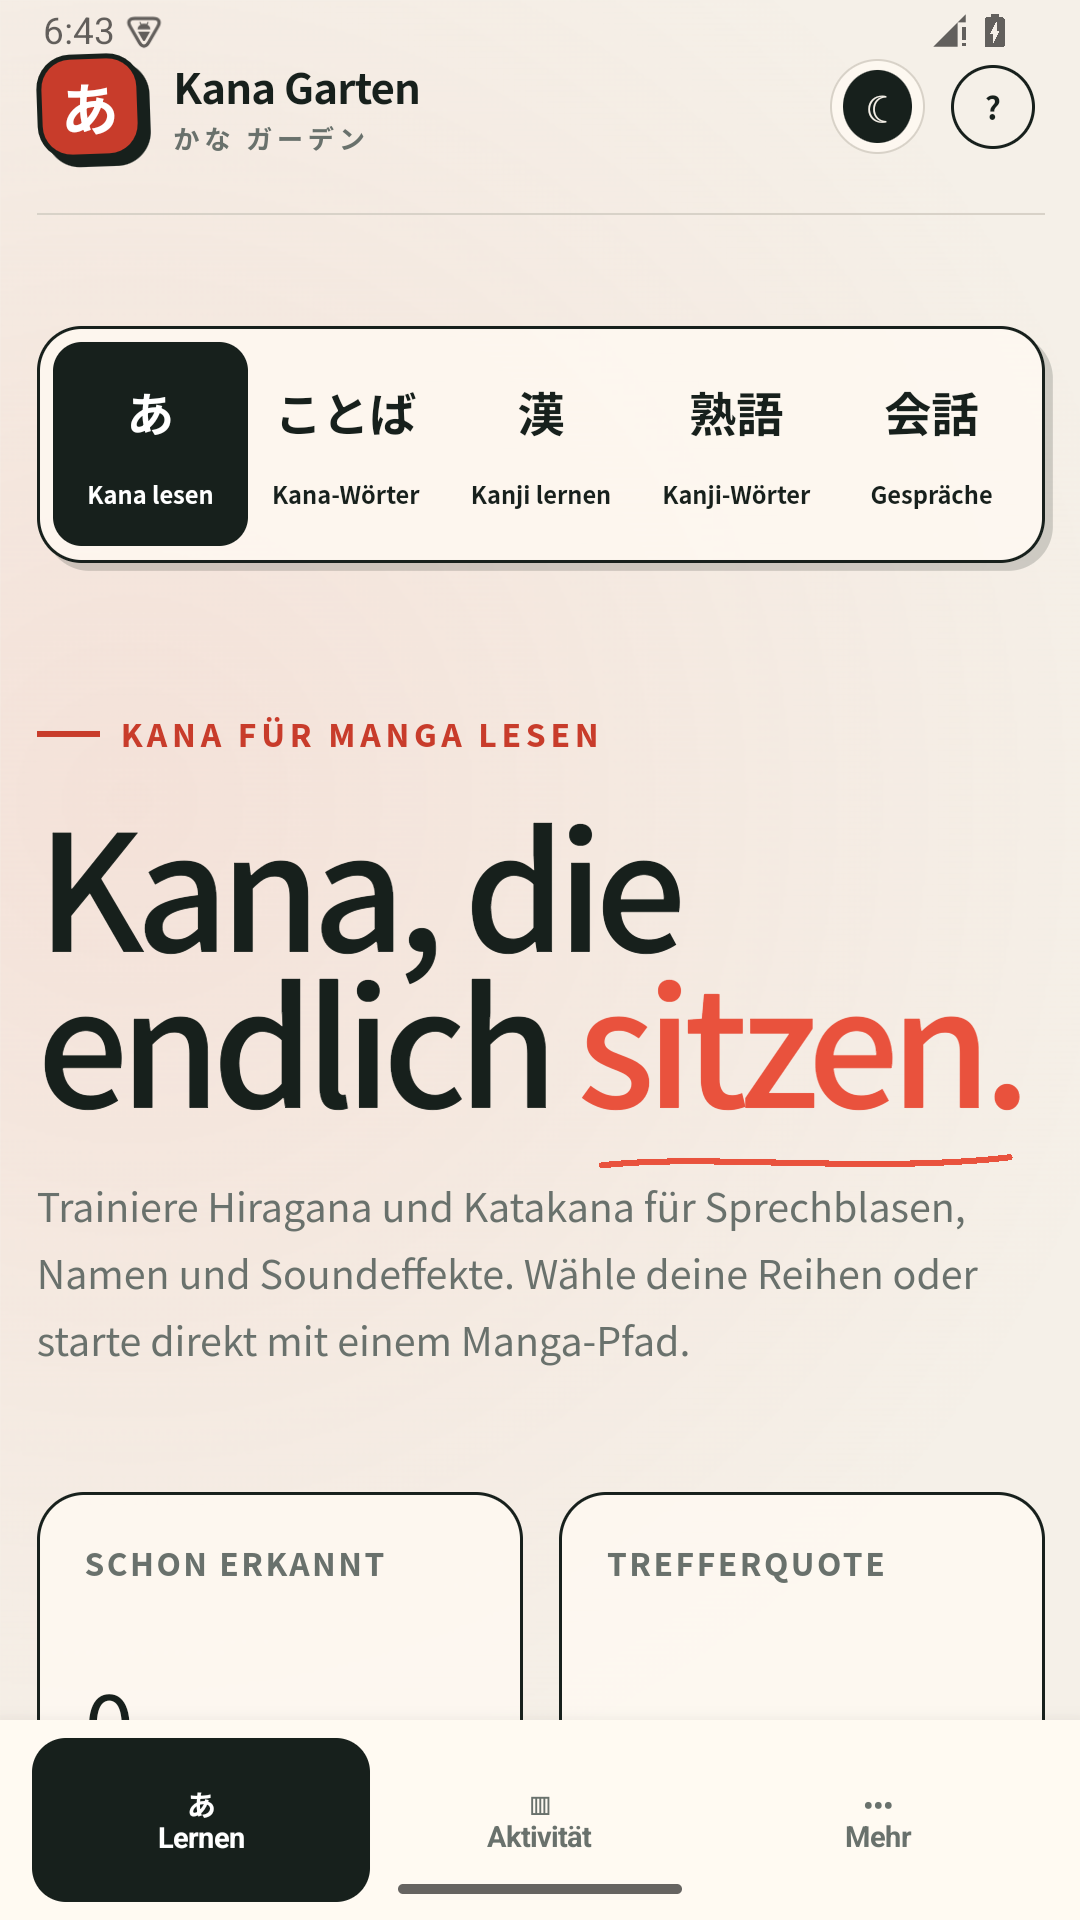
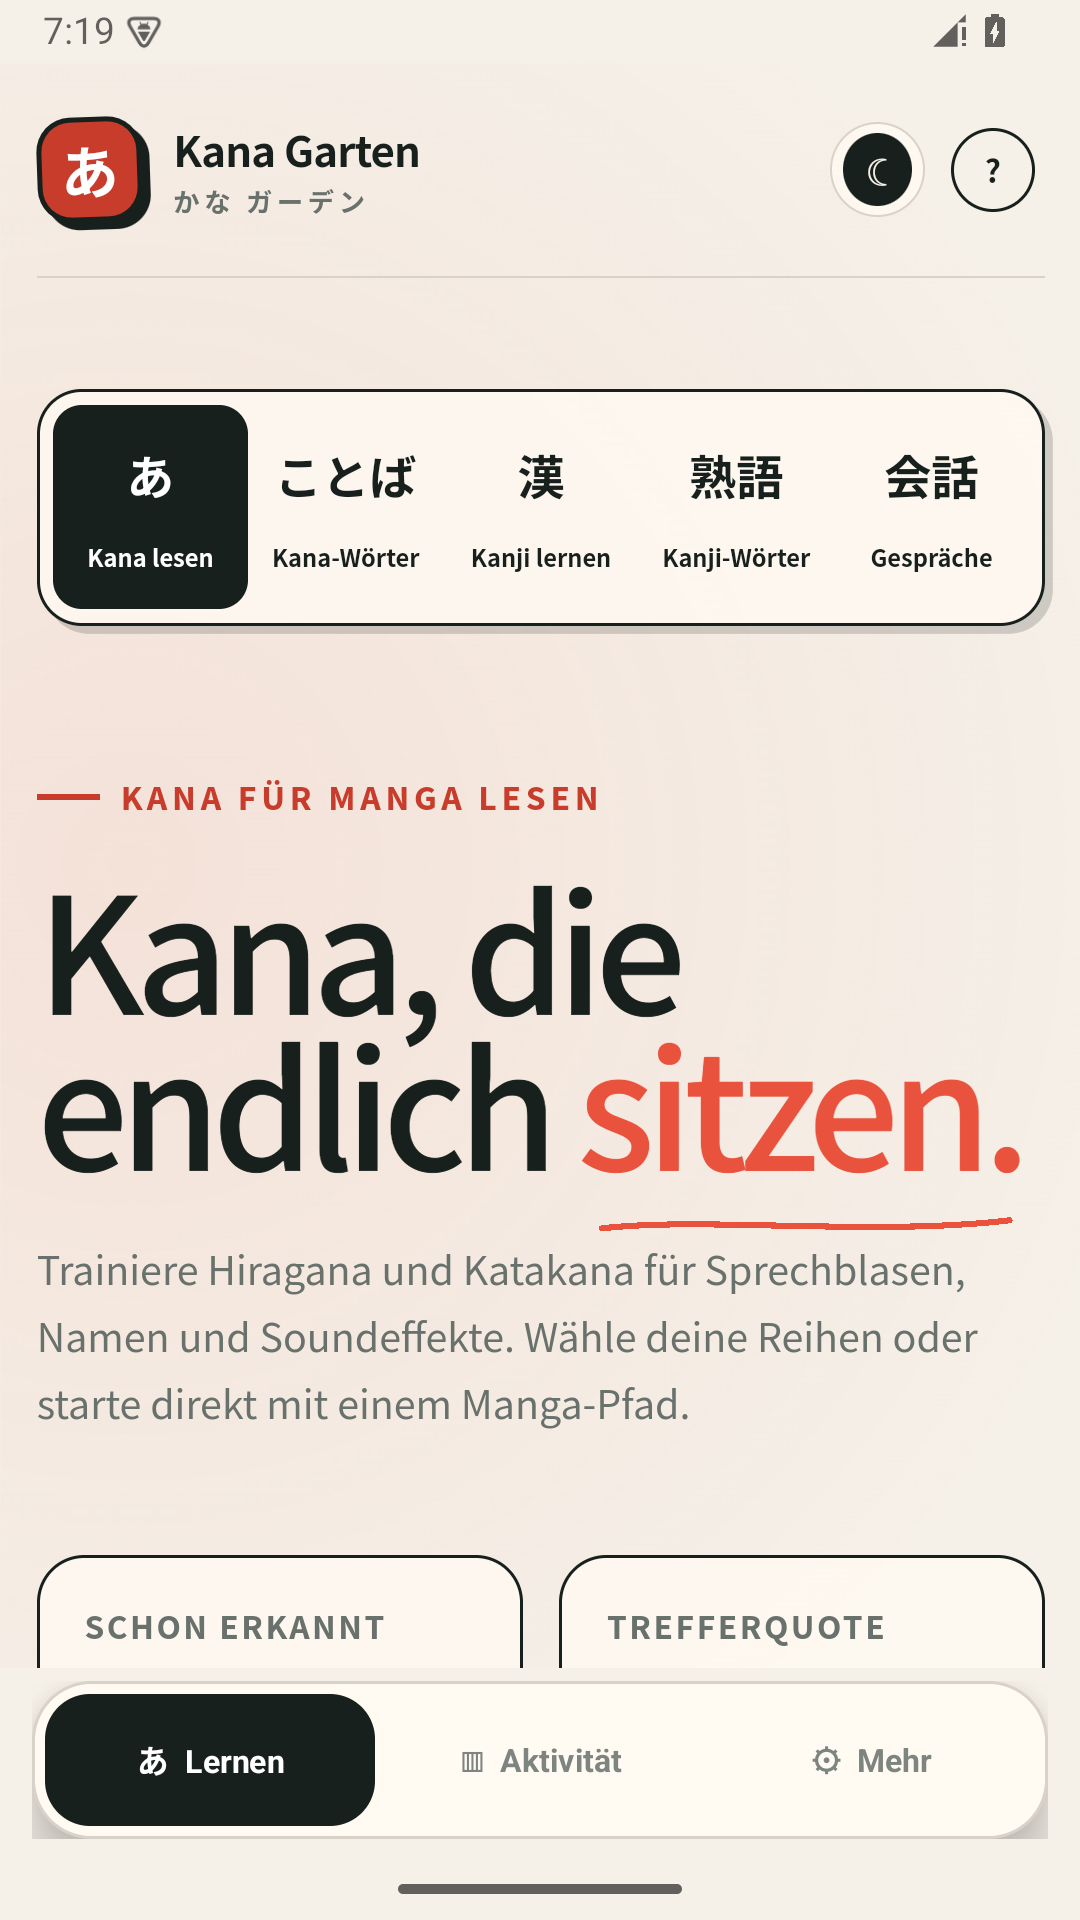
Polish system bars and learning navigation

diff --git a/app/src/main/assets/web/app.js b/app/src/main/assets/web/app.js
@@ -1945,7 +1945,10 @@ function renderWordQuiz() {
       </section>
     </div>
   `;
-  requestAnimationFrame(() => document.querySelector("#kana-answer")?.focus());
+  window.scrollTo({ top: 0, behavior: "instant" });
+  requestAnimationFrame(() =>
+    document.querySelector("#kana-answer")?.focus({ preventScroll: true }),
+  );
 }
 
 function submitWordAnswer(rawAnswer, revealed = false) {
@@ -3220,7 +3223,7 @@ function renderQuiz() {
 
   document.body.classList.add("is-quizzing");
   app.innerHTML = `
-    <div class="quiz-view">
+    <div class="quiz-view kana-quiz-view">
       <div class="quiz-top">
         <button class="icon-button" type="button" data-action="quit-session"><span aria-hidden="true">←</span> Beenden</button>
         <div class="progress-wrap" aria-label="${mastered} von ${total} gemeistert">
@@ -3234,7 +3237,7 @@ function renderQuiz() {
         </div>
       </div>
 
-      <section class="quiz-stage" aria-labelledby="quiz-prompt">
+      <section class="quiz-stage kana-quiz-stage" aria-labelledby="quiz-prompt">
         <p class="quiz-prompt" id="quiz-prompt">Wie liest man dieses Zeichen?</p>
         <div class="quiz-kana-wrap">
           <span class="quiz-script-tag">${kana.script}</span>
@@ -3284,7 +3287,10 @@ function renderQuiz() {
       </section>
     </div>
   `;
-  requestAnimationFrame(() => document.querySelector("#kana-answer")?.focus());
+  window.scrollTo({ top: 0, behavior: "instant" });
+  requestAnimationFrame(() =>
+    document.querySelector("#kana-answer")?.focus({ preventScroll: true }),
+  );
 }
 
 function submitAnswer(rawAnswer, revealed = false) {

diff --git a/app/src/main/assets/web/styles.css b/app/src/main/assets/web/styles.css
@@ -104,6 +104,14 @@ html.android-app .save-indicator {
   display: none;
 }
 
+html.android-app body.is-quizzing .site-header {
+  display: none;
+}
+
+html.android-app body.is-quizzing .quiz-view {
+  min-height: 100dvh;
+}
+
 html.android-app .home-view,
 html.android-app .quiz-view,
 html.android-app .result-view {
@@ -1444,6 +1452,11 @@ html[data-theme="dark"] .paper-grain {
   justify-items: center;
 }
 
+html.android-app .kana-quiz-stage {
+  width: 100%;
+  margin-top: clamp(48px, 8dvh, 88px);
+}
+
 .quiz-stage.word-quiz-stage {
   margin-top: 38px;
 }
@@ -1742,10 +1755,16 @@ html[data-theme="dark"] .paper-grain {
 }
 
 .quiz-kana {
+  display: grid;
+  width: 100%;
+  height: 100%;
+  place-items: center;
   font-family: "Noto Sans JP", sans-serif;
   font-size: clamp(112px, 19vw, 168px);
   font-weight: 600;
   line-height: 1;
+  text-align: center;
+  transform: translateY(-0.025em);
 }
 
 .quiz-kana.quiz-kana-combo {
@@ -3588,6 +3607,10 @@ html[data-theme="dark"] .paper-grain {
 
   .quiz-stage {
     margin-top: 40px;
+  }
+
+  html.android-app .kana-quiz-stage {
+    margin-top: clamp(72px, 12dvh, 108px);
   }
 
   .quiz-kana-wrap {

diff --git a/app/src/main/assets/web/index.html b/app/src/main/assets/web/index.html
@@ -19,7 +19,7 @@
         }
       })();
     </script>
-    <link rel="stylesheet" href="/styles.css?v=1.0.0">
+    <link rel="stylesheet" href="/styles.css?v=1.1.0">
   </head>
   <body>
     <div class="paper-grain" aria-hidden="true"></div>
@@ -77,6 +77,6 @@
     </dialog>
 
     <div id="toast-region" class="toast-region" aria-live="polite" aria-atomic="true"></div>
-    <script type="module" src="/app.js?v=1.0.0"></script>
+    <script type="module" src="/app.js?v=1.1.0"></script>
   </body>
 </html>

diff --git a/app/src/main/java/ch/fasrv/kanagarten/MainActivity.java b/app/src/main/java/ch/fasrv/kanagarten/MainActivity.java
@@ -23,6 +23,7 @@ import android.view.Gravity;
 import android.view.View;
 import android.view.ViewGroup;
 import android.view.Window;
+import android.view.WindowInsets;
 import android.webkit.JavascriptInterface;
 import android.webkit.PermissionRequest;
 import android.webkit.WebChromeClient;
@@ -73,9 +74,7 @@ public final class MainActivity extends Activity {
     protected void onCreate(Bundle savedInstanceState) {
         super.onCreate(savedInstanceState);
         Window window = getWindow();
-        window.setStatusBarColor(PAPER);
-        window.setNavigationBarColor(PAPER_LIGHT);
-        window.getDecorView().setSystemUiVisibility(View.SYSTEM_UI_FLAG_LIGHT_STATUS_BAR);
+        configureSystemBars(window);
 
         usageStore = new UsageStore(this);
         initializeTextToSpeech();
@@ -88,6 +87,7 @@ public final class MainActivity extends Activity {
         LinearLayout root = new LinearLayout(this);
         root.setOrientation(LinearLayout.VERTICAL);
         root.setBackgroundColor(PAPER);
+        installSystemBarInsets(root);
 
         contentFrame = new FrameLayout(this);
         root.addView(contentFrame, new LinearLayout.LayoutParams(
@@ -105,9 +105,52 @@ public final class MainActivity extends Activity {
 
         root.addView(buildBottomNavigation(), new LinearLayout.LayoutParams(
             ViewGroup.LayoutParams.MATCH_PARENT,
-            dp(76)
+            dp(72)
         ));
         setContentView(root);
+        root.requestApplyInsets();
+    }
+
+    @SuppressWarnings("deprecation")
+    private void configureSystemBars(Window window) {
+        if (Build.VERSION.SDK_INT >= Build.VERSION_CODES.R) {
+            window.setDecorFitsSystemWindows(false);
+            window.setStatusBarColor(Color.TRANSPARENT);
+            window.setNavigationBarColor(Color.TRANSPARENT);
+            android.view.WindowInsetsController controller =
+                window.getDecorView().getWindowInsetsController();
+            if (controller != null) {
+                controller.setSystemBarsAppearance(
+                    android.view.WindowInsetsController.APPEARANCE_LIGHT_STATUS_BARS
+                        | android.view.WindowInsetsController.APPEARANCE_LIGHT_NAVIGATION_BARS,
+                    android.view.WindowInsetsController.APPEARANCE_LIGHT_STATUS_BARS
+                        | android.view.WindowInsetsController.APPEARANCE_LIGHT_NAVIGATION_BARS
+                );
+            }
+        } else {
+            window.setStatusBarColor(PAPER);
+            window.setNavigationBarColor(PAPER_LIGHT);
+            int flags = View.SYSTEM_UI_FLAG_LIGHT_STATUS_BAR
+                | View.SYSTEM_UI_FLAG_LIGHT_NAVIGATION_BAR;
+            window.getDecorView().setSystemUiVisibility(flags);
+        }
+    }
+
+    private void installSystemBarInsets(View root) {
+        if (Build.VERSION.SDK_INT < Build.VERSION_CODES.R) return;
+        root.setOnApplyWindowInsetsListener((view, windowInsets) -> {
+            android.graphics.Insets safeArea = windowInsets.getInsets(
+                WindowInsets.Type.systemBars() | WindowInsets.Type.displayCutout()
+            );
+            android.graphics.Insets keyboard = windowInsets.getInsets(WindowInsets.Type.ime());
+            view.setPadding(
+                safeArea.left,
+                safeArea.top,
+                safeArea.right,
+                Math.max(safeArea.bottom, keyboard.bottom)
+            );
+            return windowInsets;
+        });
     }
 
     @SuppressLint("SetJavaScriptEnabled")
@@ -173,27 +216,43 @@ public final class MainActivity extends Activity {
     }
 
     private View buildBottomNavigation() {
-        LinearLayout shell = new LinearLayout(this);
-        shell.setGravity(Gravity.CENTER);
-        shell.setPadding(dp(12), dp(7), dp(12), dp(7));
-        shell.setBackgroundColor(PAPER_LIGHT);
-        shell.setElevation(dp(14));
-        shell.addView(navigationButton("あ", "Lernen", 0), weighted());
-        shell.addView(navigationButton("▥", "Aktivität", 1), weighted());
-        shell.addView(navigationButton("•••", "Mehr", 2), weighted());
-        return shell;
+        FrameLayout area = new FrameLayout(this);
+        area.setPadding(dp(12), dp(5), dp(12), dp(7));
+        area.setBackgroundColor(PAPER);
+
+        LinearLayout dock = new LinearLayout(this);
+        dock.setGravity(Gravity.CENTER);
+        dock.setPadding(dp(5), dp(5), dp(5), dp(5));
+        GradientDrawable dockBackground = rounded(PAPER_LIGHT, 22);
+        dockBackground.setStroke(dp(1), 0xFFD8D2C8);
+        dock.setBackground(dockBackground);
+        dock.setElevation(dp(12));
+        dock.addView(navigationButton("あ", "Lernen", 0), weighted());
+        dock.addView(navigationButton("▥", "Aktivität", 1), weighted());
+        dock.addView(navigationButton("⚙", "Mehr", 2), weighted());
+        area.addView(dock, new FrameLayout.LayoutParams(
+            ViewGroup.LayoutParams.MATCH_PARENT,
+            ViewGroup.LayoutParams.MATCH_PARENT
+        ));
+        return area;
     }
 
     @SuppressLint("SetTextI18n")
     private TextView navigationButton(String icon, String label, int index) {
         TextView button = new TextView(this);
-        button.setText(icon + "\n" + label);
-        button.setTextSize(11);
+        button.setText(icon + "  " + label);
+        button.setTextSize(12);
         button.setTypeface(Typeface.create("sans", Typeface.BOLD));
         button.setGravity(Gravity.CENTER);
-        button.setLineSpacing(0, 0.92f);
+        button.setLetterSpacing(0.015f);
+        button.setPadding(dp(4), 0, dp(4), 0);
         button.setContentDescription(label);
-        button.setOnClickListener(view -> selectTab(index, true));
+        button.setOnClickListener(view -> {
+            view.animate().scaleX(0.96f).scaleY(0.96f).setDuration(70).withEndAction(() ->
+                view.animate().scaleX(1f).scaleY(1f).setDuration(140).start()
+            ).start();
+            selectTab(index, true);
+        });
         navigationButtons.add(button);
         return button;
     }
@@ -205,7 +264,9 @@ public final class MainActivity extends Activity {
             TextView button = navigationButtons.get(i);
             boolean selected = i == index;
             button.setTextColor(selected ? Color.WHITE : MUTED);
-            button.setBackground(selected ? rounded(INK, 13) : rounded(Color.TRANSPARENT, 13));
+            button.setBackground(selected ? rounded(INK, 17) : rounded(Color.TRANSPARENT, 17));
+            button.setAlpha(selected ? 1f : 0.86f);
+            button.setSelected(selected);
         }
         if (currentView == next) return;
         if (!animate || currentView == null) {
@@ -279,7 +340,7 @@ public final class MainActivity extends Activity {
 
         LinearLayout source = settingCard();
         source.addView(label("Open Source", 17, INK, Typeface.BOLD));
-        source.addView(label("Quellcode, Release-APK und Build-Workflow liegen im GitHub-Repository.", 12, MUTED, Typeface.NORMAL), margins(0, 7, 0, 13));
+        source.addView(label("Quellcode, Release-APK und Prüfsumme liegen im GitHub-Repository.", 12, MUTED, Typeface.NORMAL), margins(0, 7, 0, 13));
         Button sourceButton = actionButton("GitHub-Repository öffnen", GREEN);
         sourceButton.setOnClickListener(view -> startActivity(new Intent(
             Intent.ACTION_VIEW,
